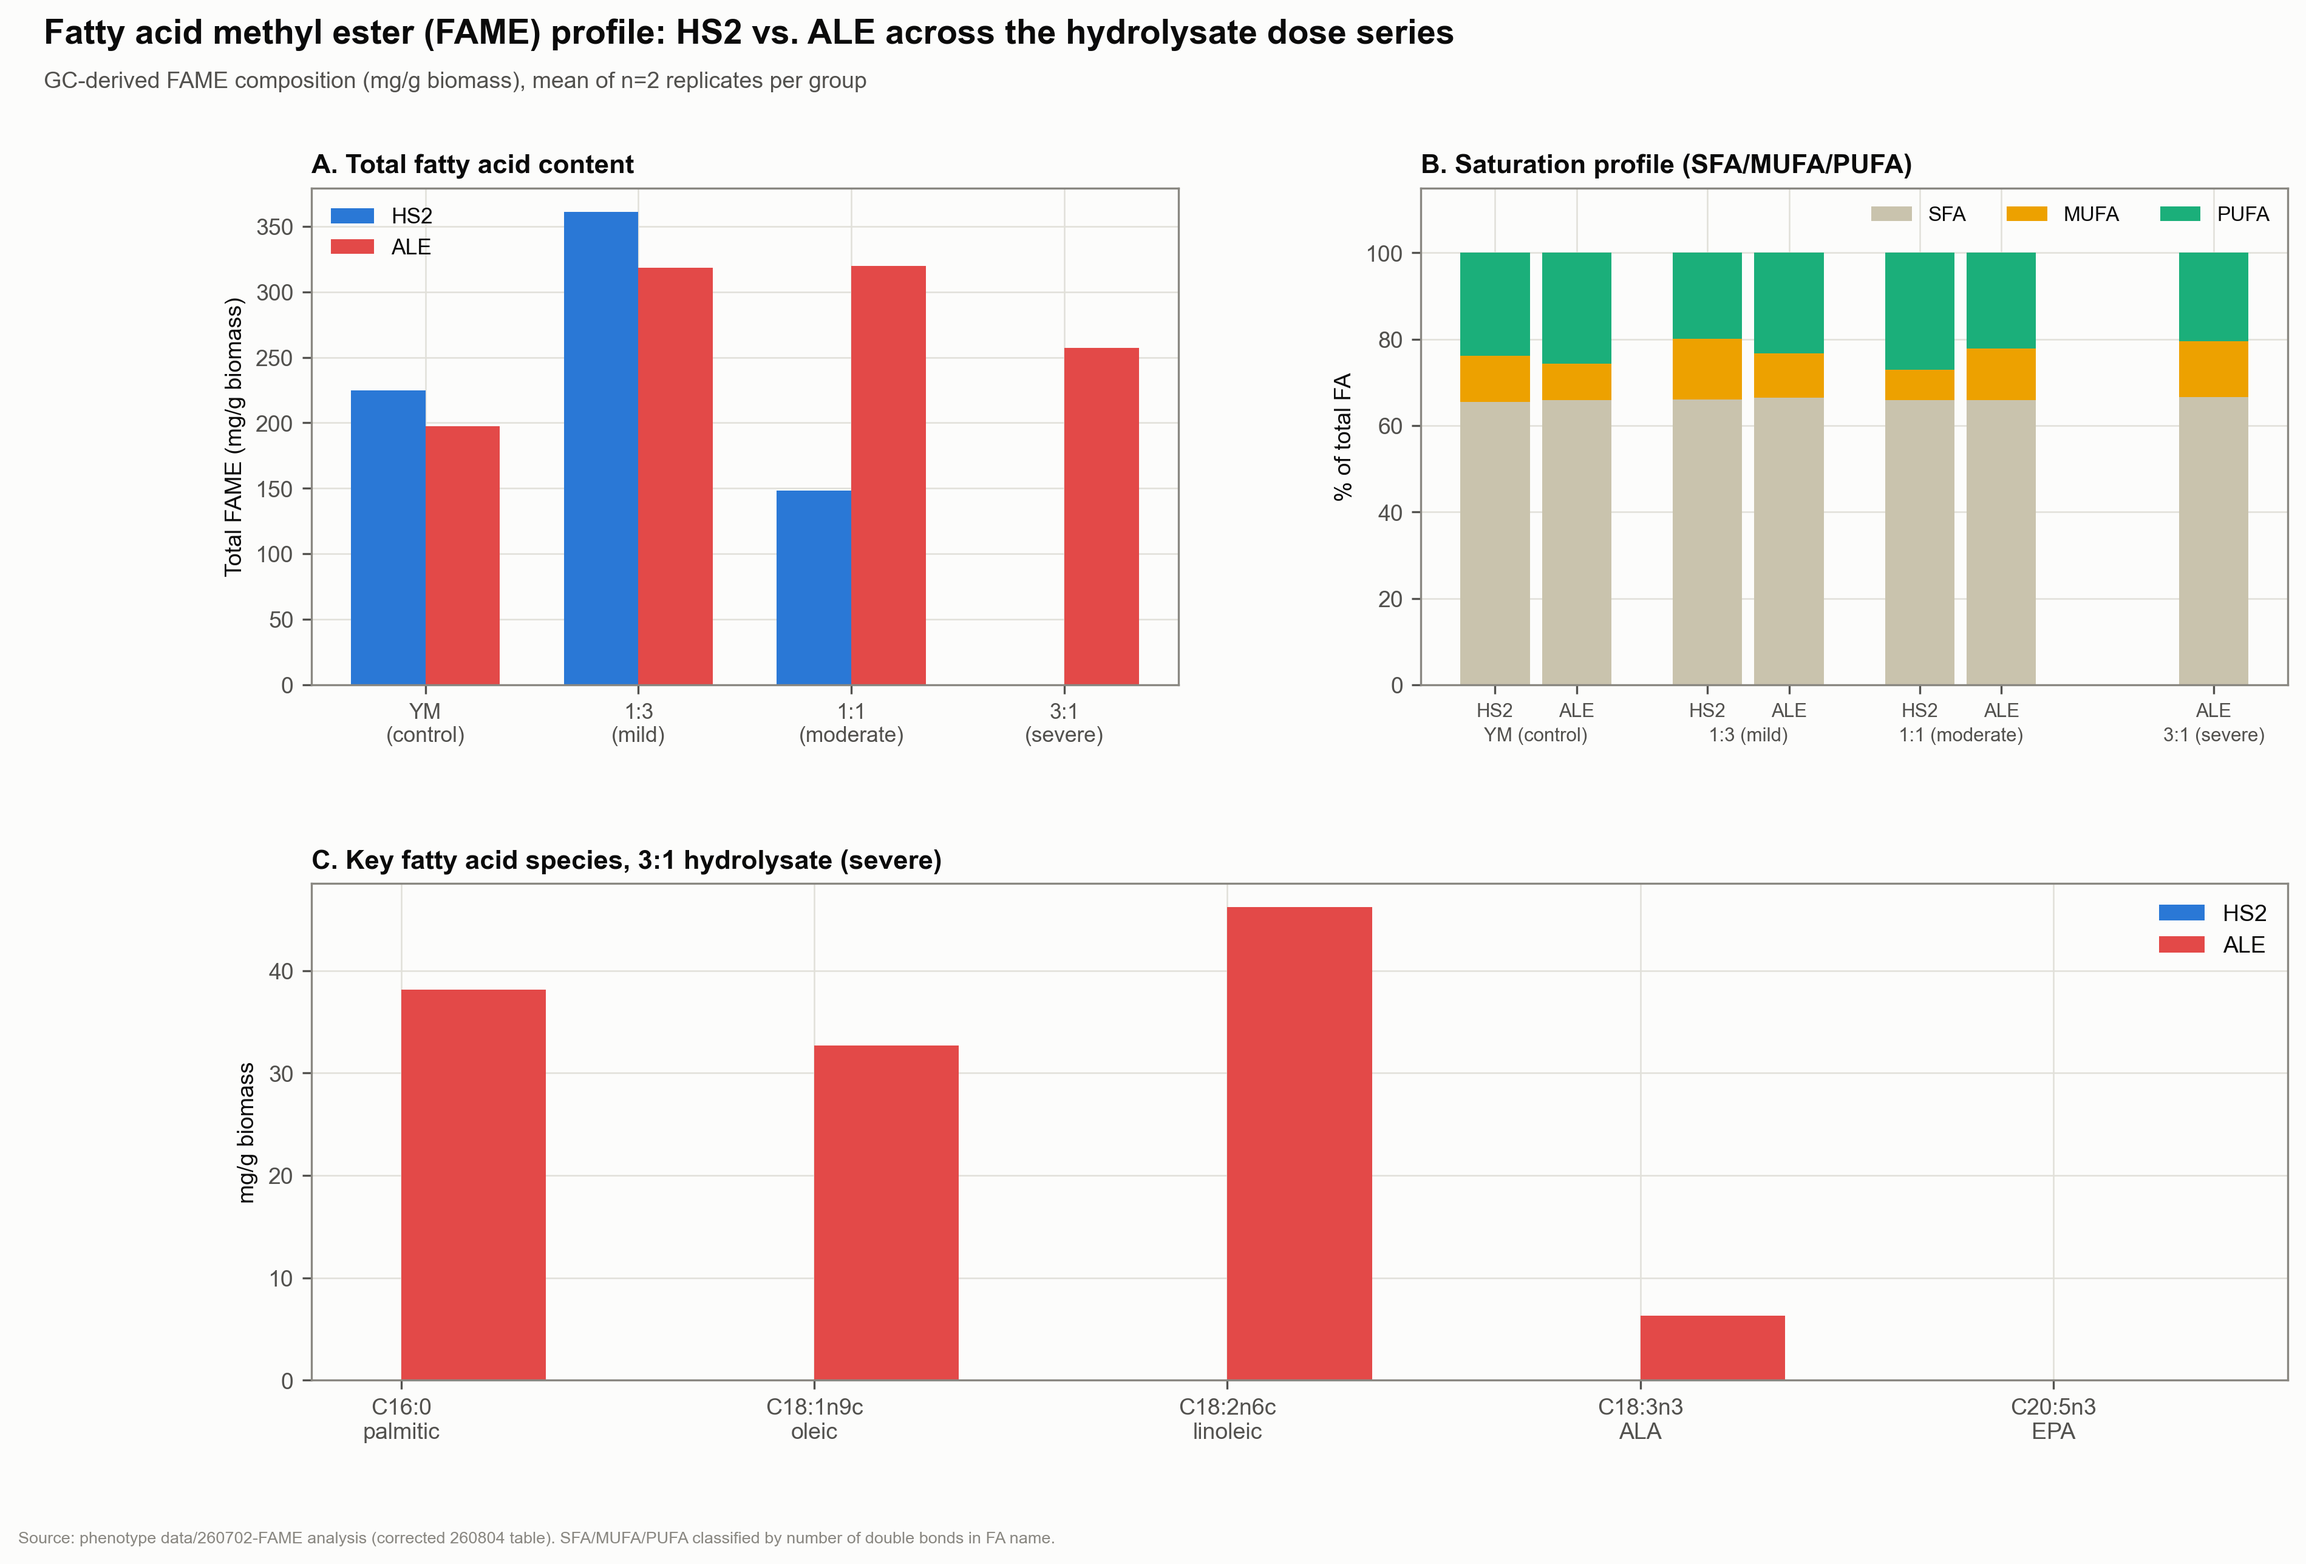
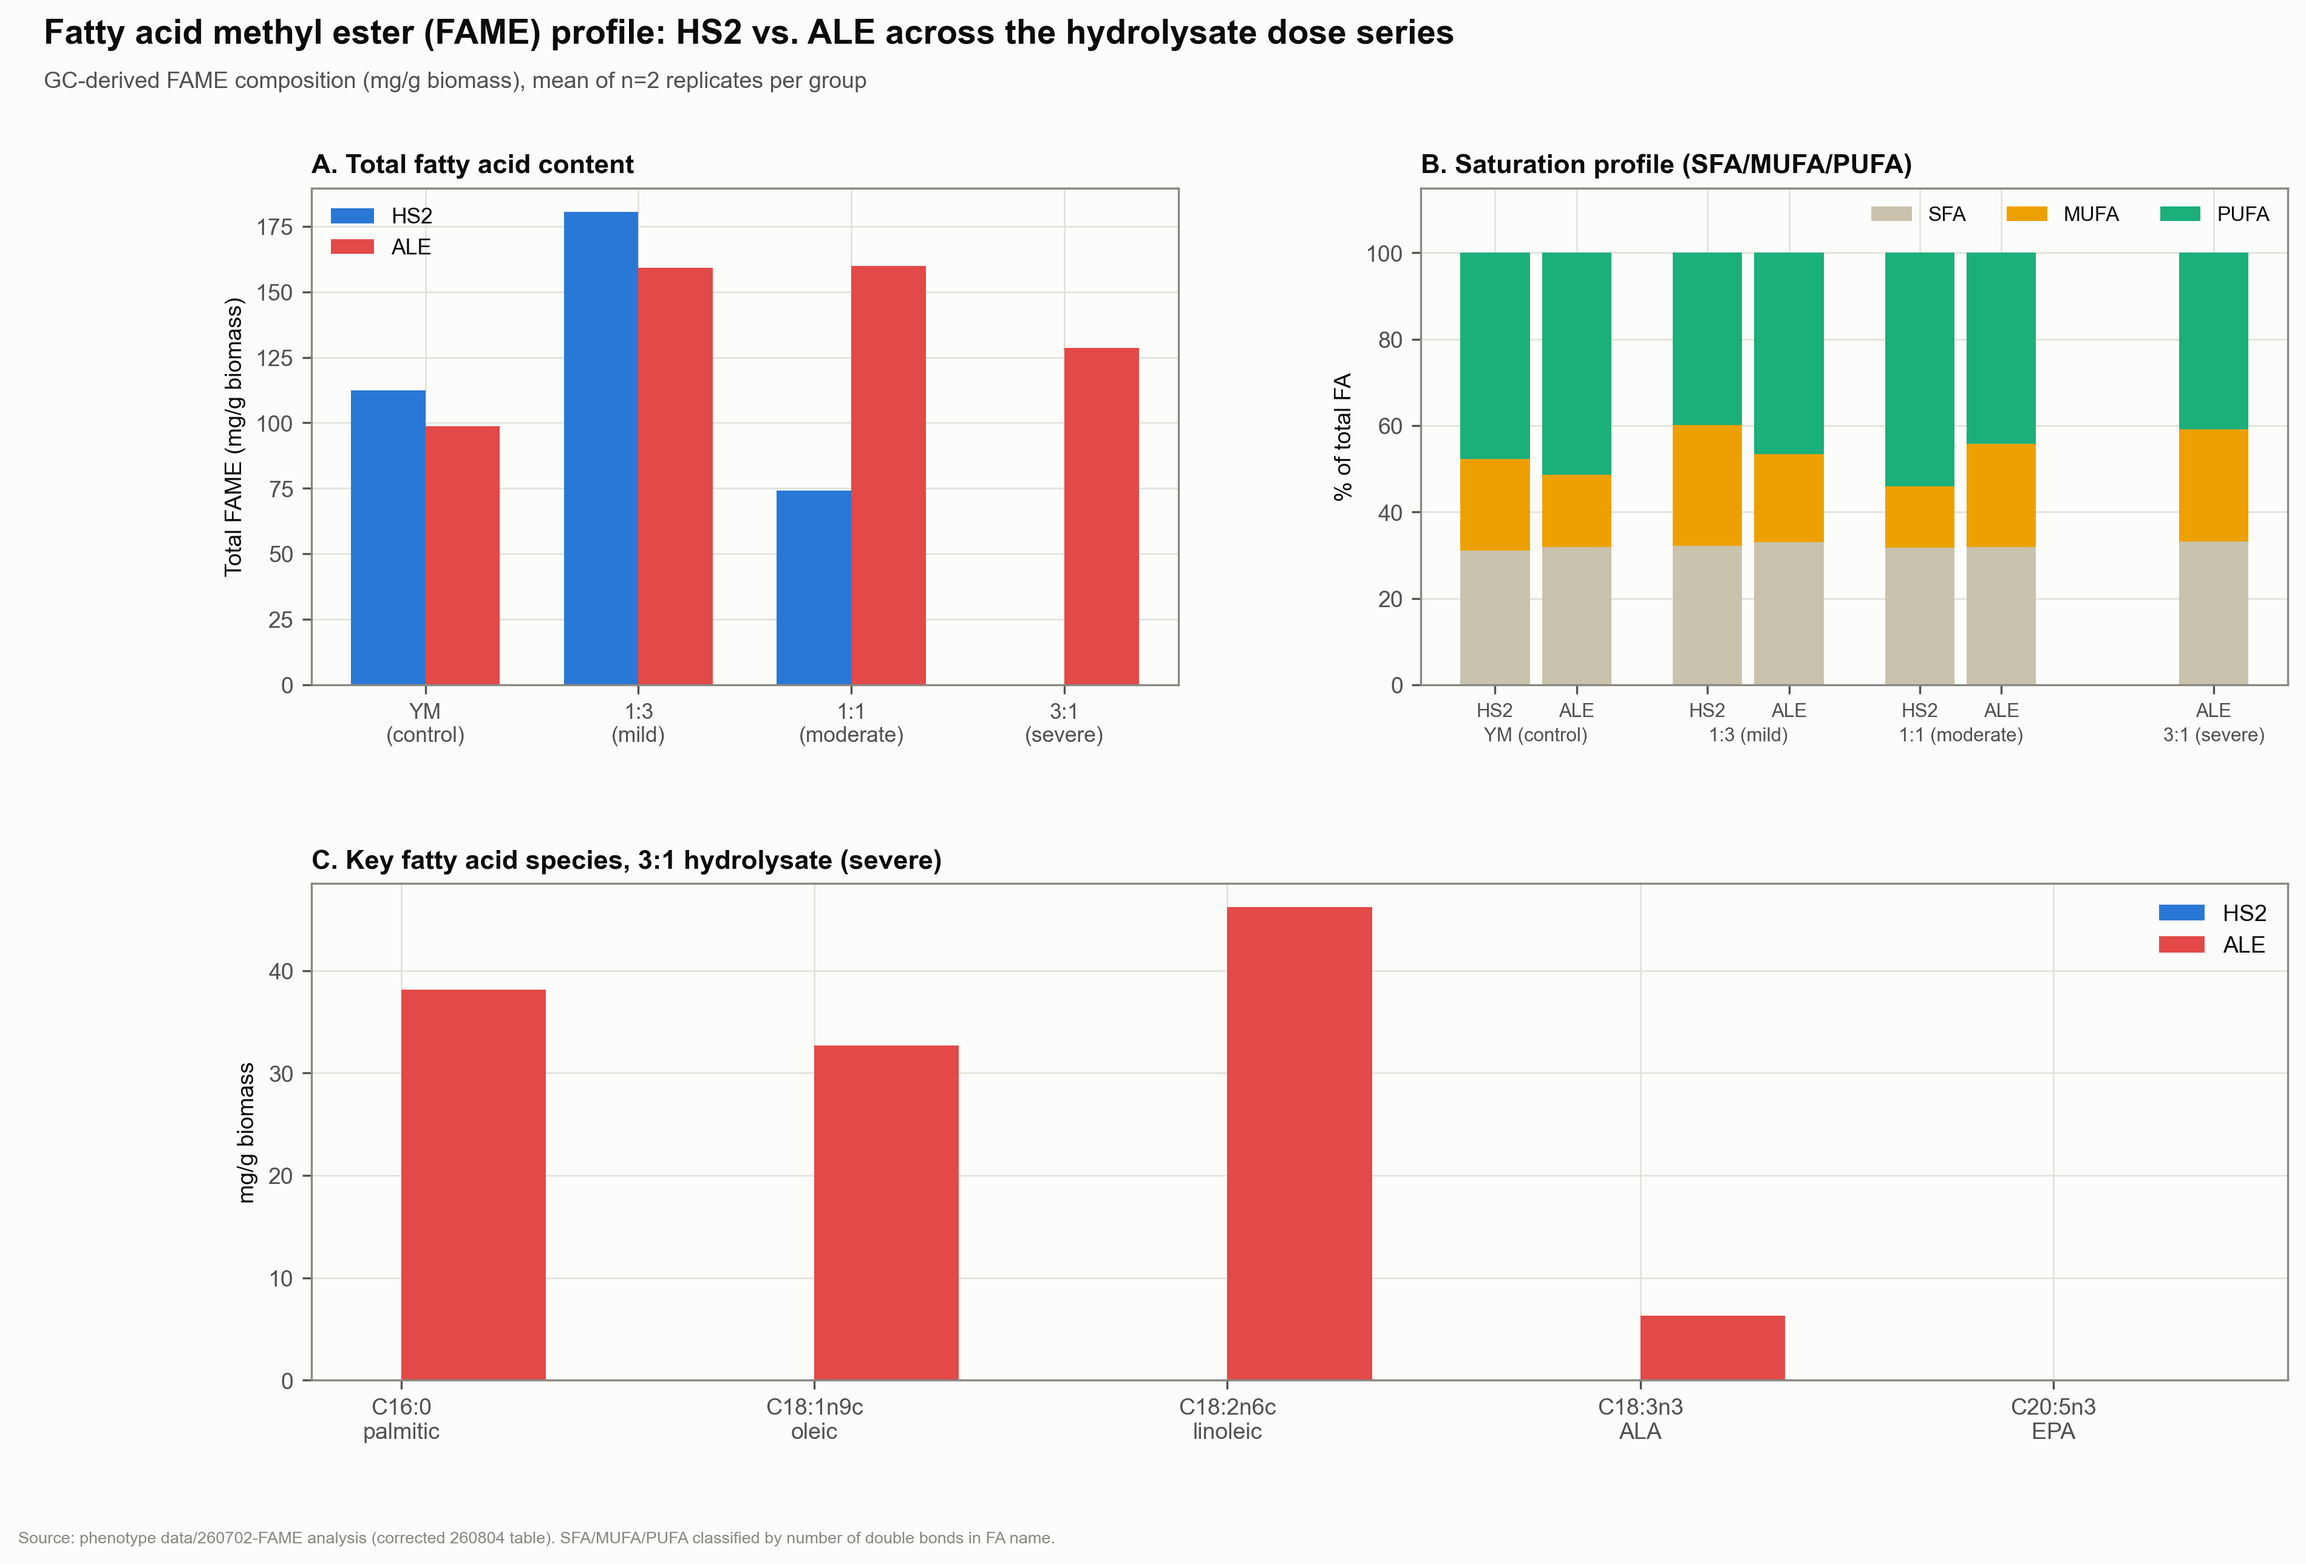
Add dark-condition FTIR and FAME/SAF-quality figures; fix FAME SFA bug
New: FTIR light-vs-dark comparison at the ALE-selection dose (fig36);
FAME-derived biodiesel/SAF quality indices -- cetane, iodine value,
cold-flow -- showing ALE's dose-matched lipid shift trends toward
better fuel quality (fig37).

Fix: fig26 FAME saturation profile was double-counting a pre-computed
sum column as saturated fat, inflating reported SFA from a true ~31%
to ~65%. Corrected script and caption -- SFA is genuinely stable, but
MUFA/PUFA split is not, reversing between strains at the 1:1 dose.

Changed region(s): [[0.6214, 0.2174, 0.901, 0.3727], [0.9321, 0.2174, 0.9942, 0.3416]]

diff --git a/index.html b/index.html
@@ -394,8 +394,18 @@ footer{ padding:44px 0 60px; }
     </figure>
 
     <figure class="fig reveal" style="margin-top:44px;">
+      <img src="assets/fig36_ftir_light_vs_dark.png" alt="FTIR light vs dark cultivation comparison, HS2 vs ALE, at the YM control and 1:1 hydrolysate doses" loading="lazy">
+      <div class="fig-cap"><span class="k">Does the ALE signature need light?</span>Dark cultivation was only run at two doses: YM (control) and 1:1 — the same 1:1 hydrolysate dose HS2 was evolved into ALE under, this time run in the dark. The ALE-vs-HS2 difference spectrum changes character between light and dark rather than simply shrinking, suggestive of a light-dependent component to the phenotype — worth stating carefully rather than overclaiming from a two-dose comparison.</div>
+    </figure>
+
+    <figure class="fig reveal" style="margin-top:44px;">
       <img src="assets/fig26_fame_profile.png" alt="Fatty acid methyl ester composition comparing HS2 and ALE across the hydrolysate dose series" loading="lazy">
-      <div class="fig-cap"><span class="k">Fatty acid profile</span>GC-derived FAME analysis. The saturation profile (SFA/MUFA/PUFA ratio) is remarkably stable between strains and conditions (~65% SFA throughout) — the divergence is in total fatty acid yield, not composition, echoing the total-lipid and growth results above. HS2 has no measurable FAME at the severe condition, consistent with insufficient biomass to extract from.</div>
+      <div class="fig-cap"><span class="k">Fatty acid profile</span>GC-derived FAME analysis (corrected: an earlier pass in this figure double-counted a pre-computed row-total column as saturated fat, inflating the reported SFA share to ~65% — traced and fixed). The real picture: SFA is genuinely stable (~30–33% across every condition), but the MUFA/PUFA split is not — at the 1:1 dose (the same condition HS2 was evolved into ALE under), HS2 skews sharply toward PUFA (54%) while ALE shifts toward MUFA (24% vs. HS2's 14%), a reversal not seen at any other dose. This is the same pattern examined for fuel-quality implications below.</div>
+    </figure>
+
+    <figure class="fig reveal" style="margin-top:44px;">
+      <img src="assets/fig37_fame_saf_quality.png" alt="Lipid quality for biofuel and SAF feedstock use, HS2 vs ALE, derived from FAME composition, light and dark cultivation" loading="lazy">
+      <div class="fig-cap"><span class="k">What the lipid shift means for fuel quality</span>Standard biodiesel/SAF-precursor quality indices (cetane number, iodine value, cold filter plugging point — empirical composition-based estimates, not measured fuel properties) computed from the corrected FAME data. At the 1:1 dose, ALE's shift toward MUFA raises its estimated cetane number and lowers its iodine value relative to HS2 — both in the direction of better fuel quality — at a modest cold-flow tradeoff. The same MUFA/PUFA relationship reappears in both light and dark at the matched doses, tracking hydrolysate exposure rather than illumination.</div>
     </figure>
 
     <figure class="fig reveal" style="margin-top:44px;">
